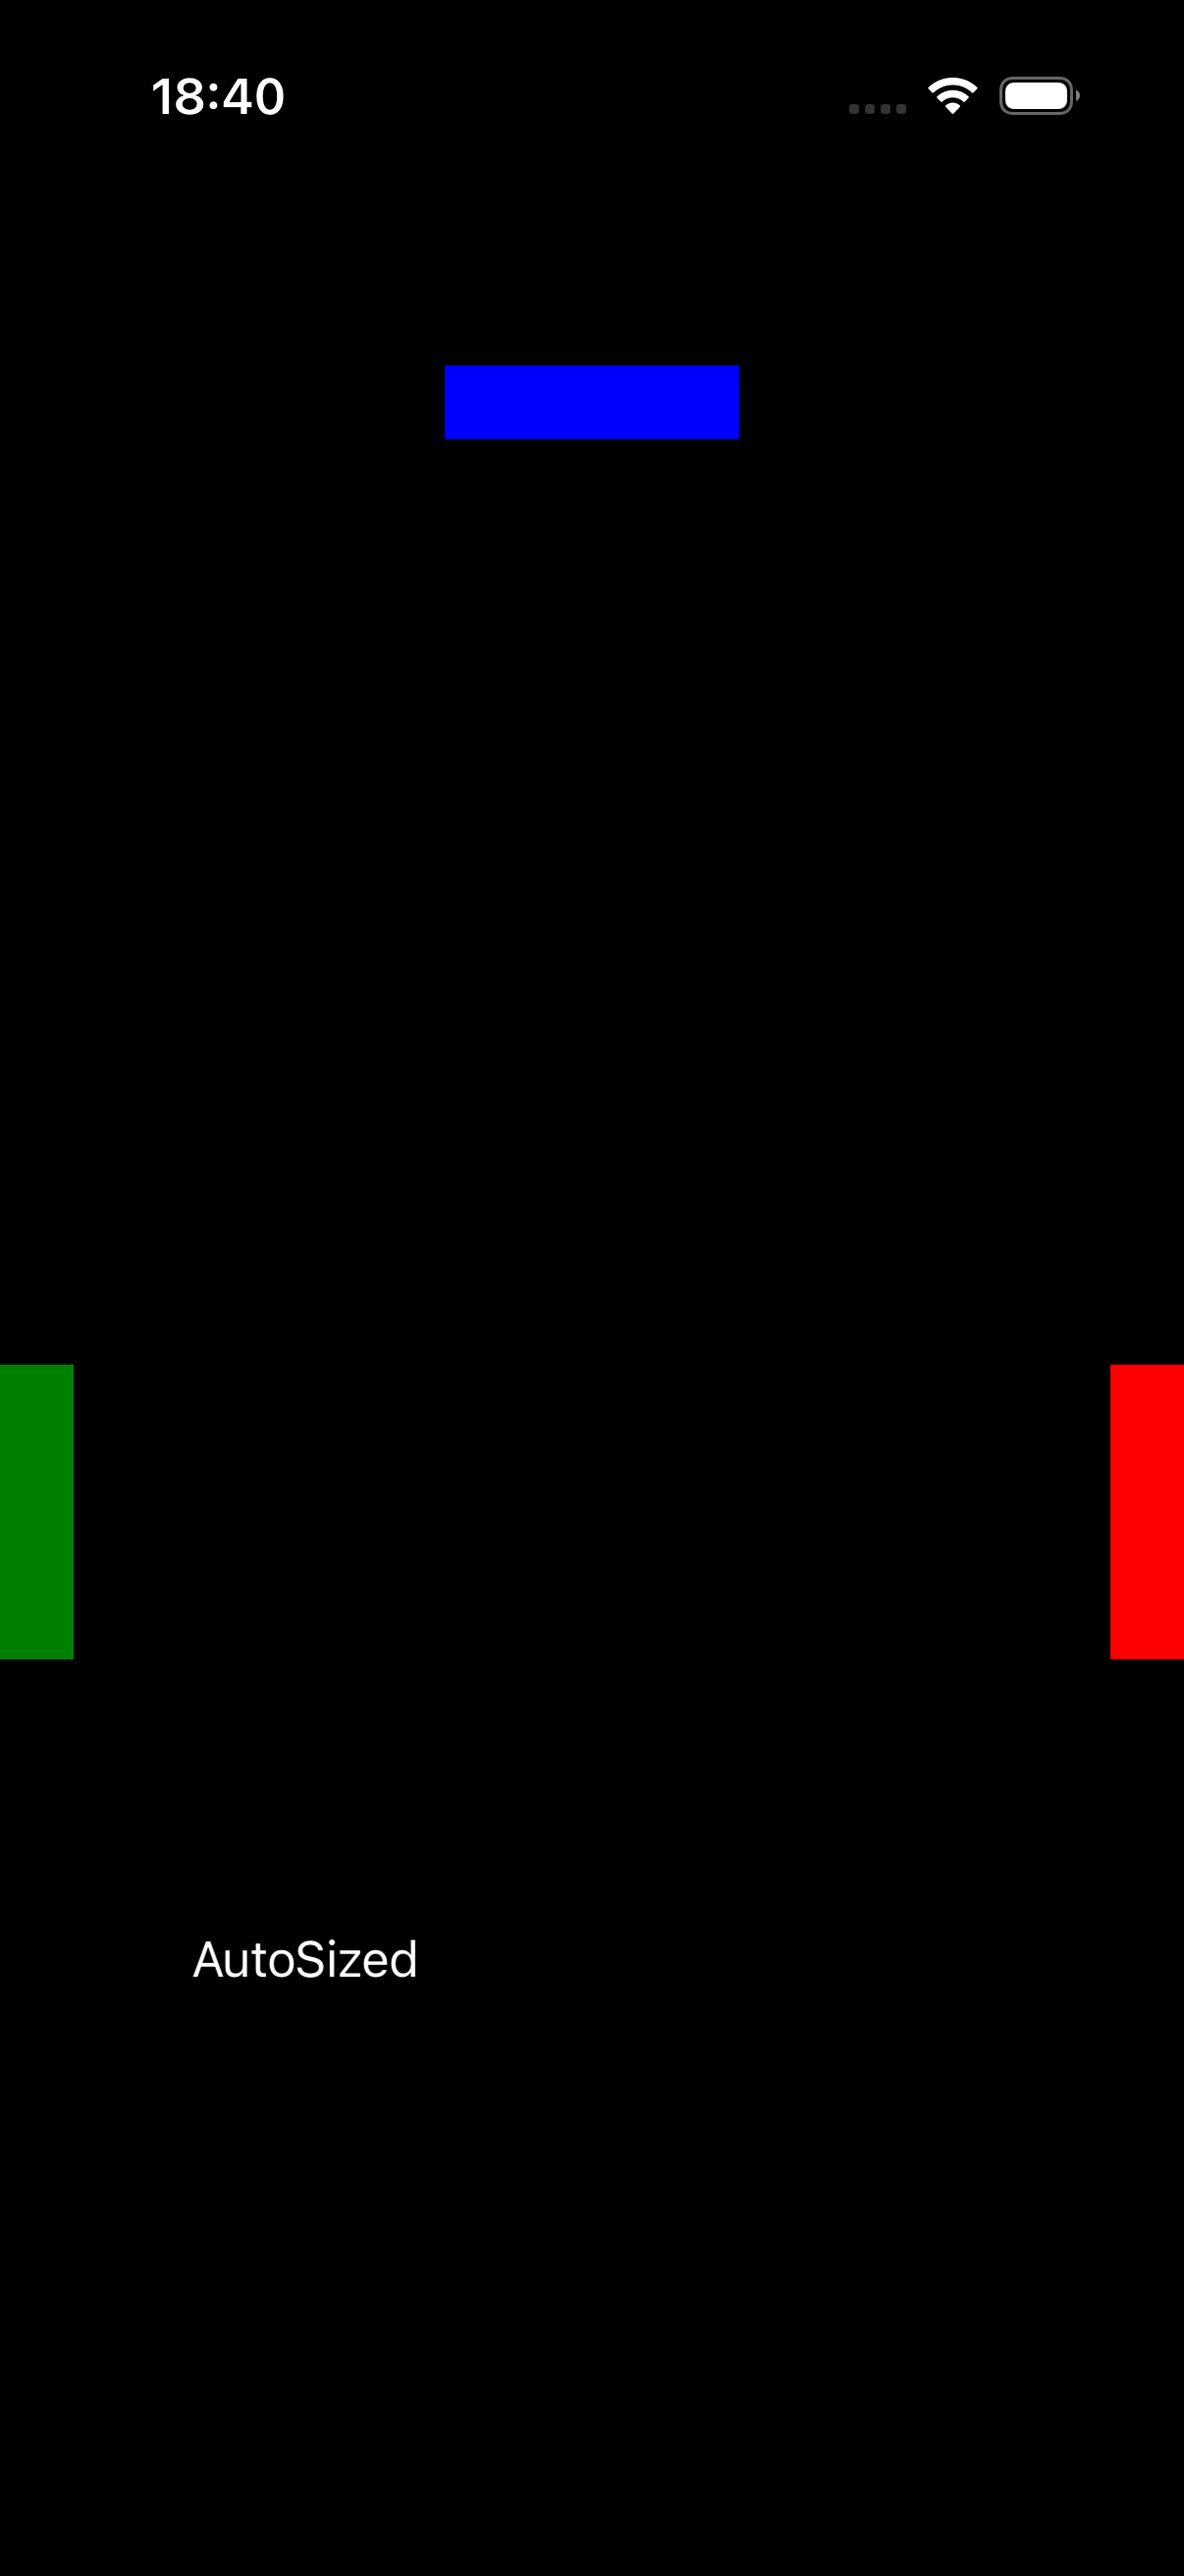
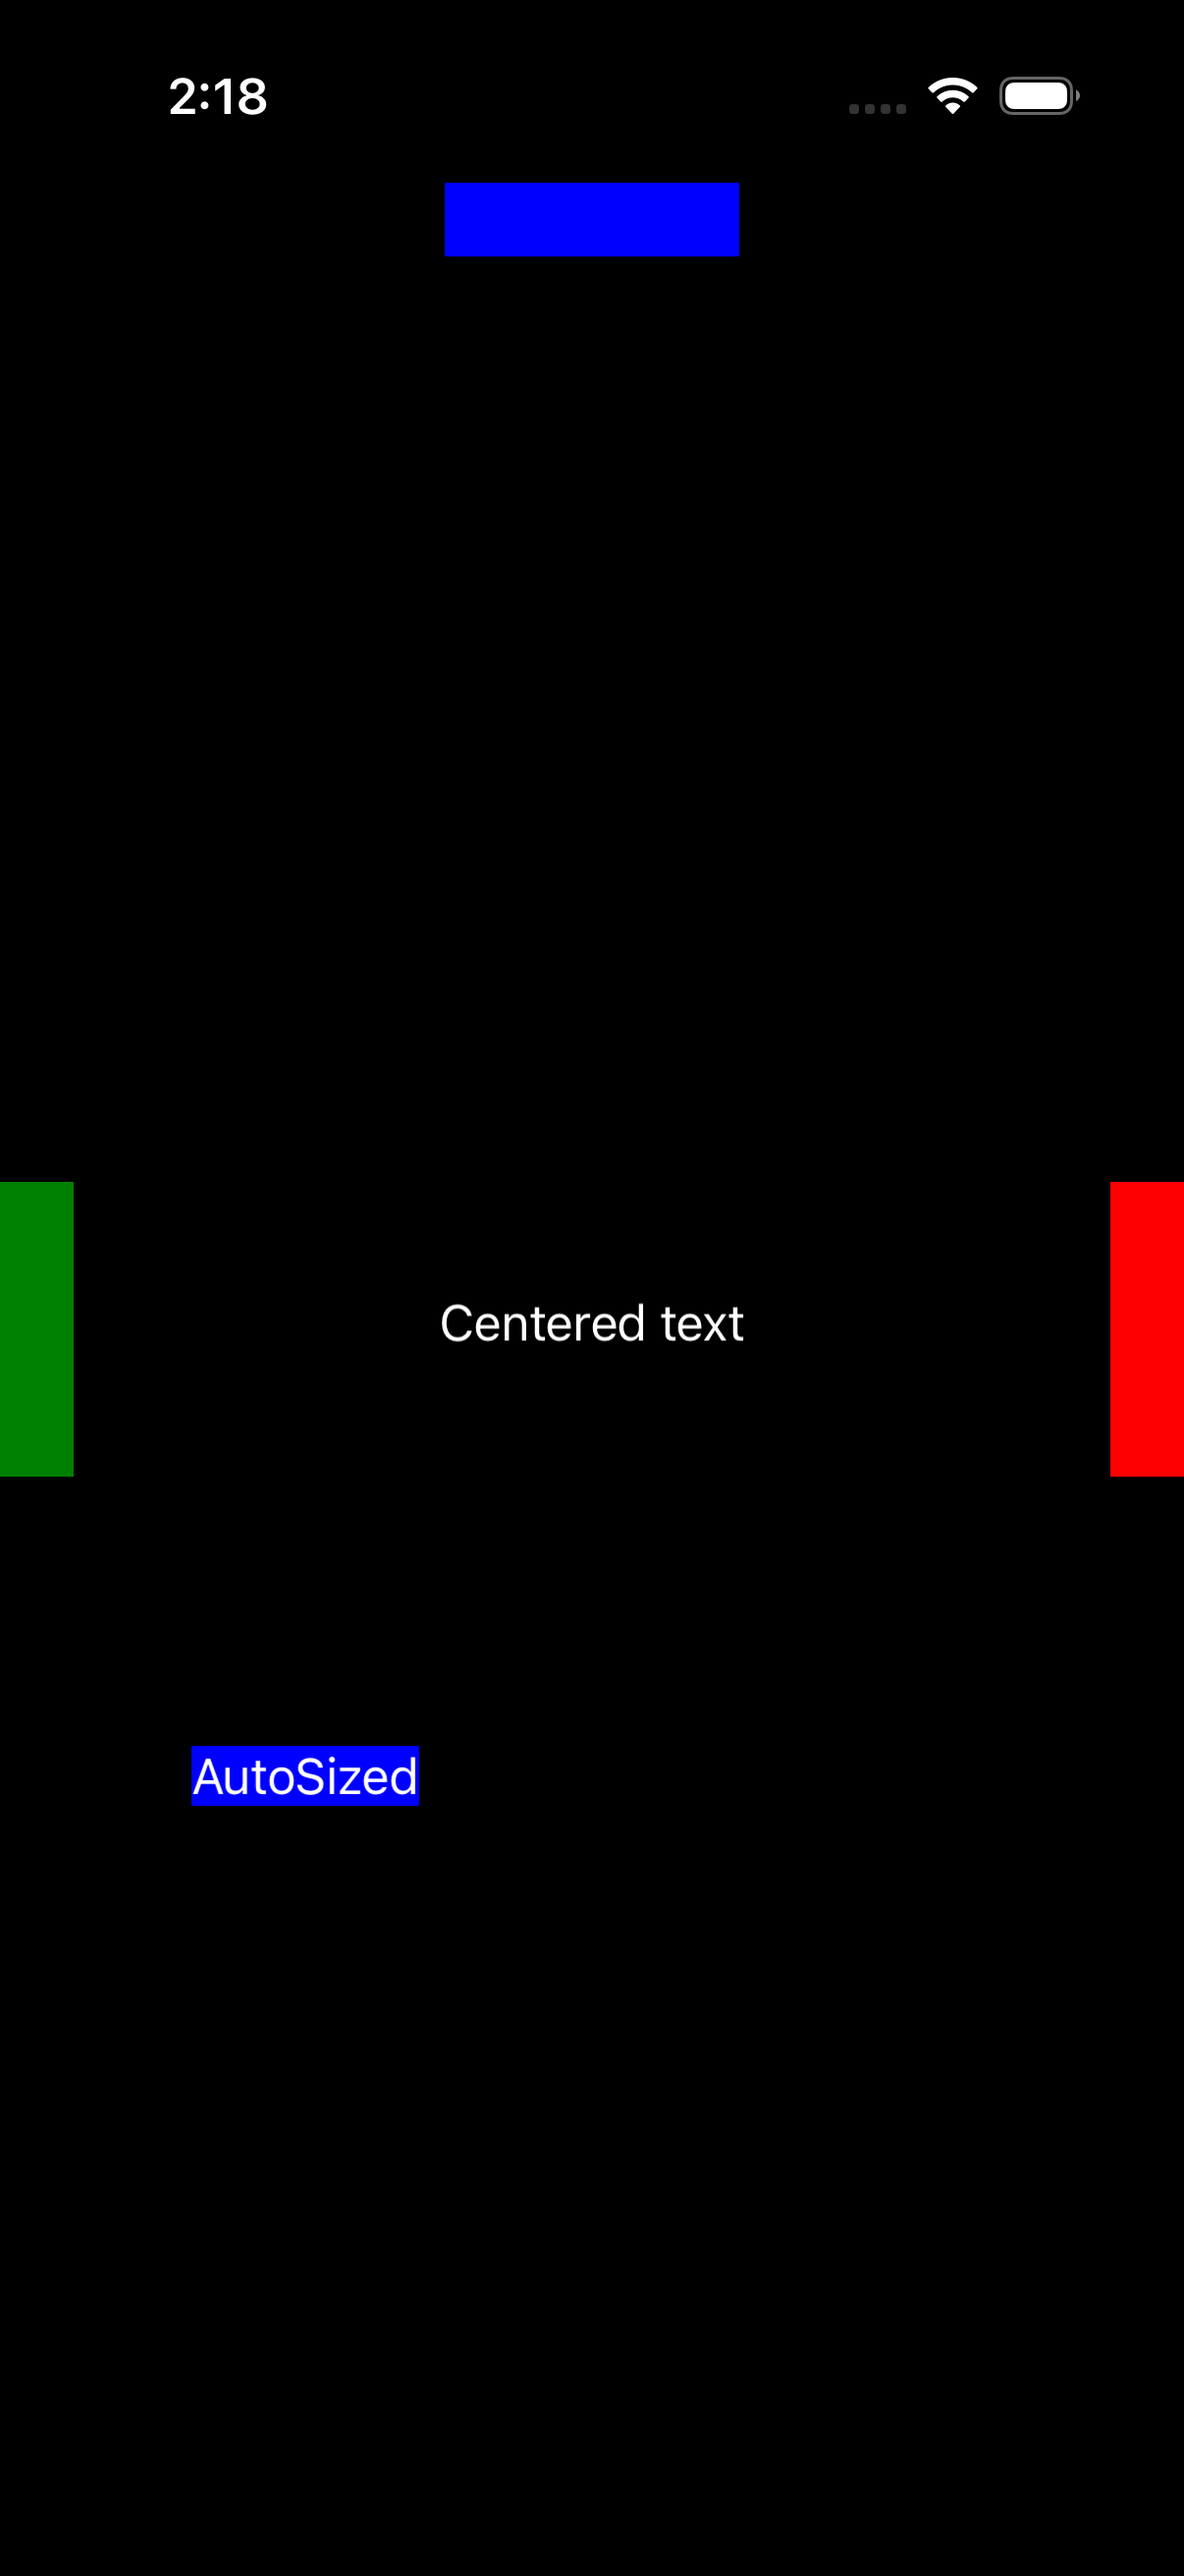
fix(ios): label MapBackground + #35 absolute_layout parity
The iOS label_handler never overrode update_background — a Label's
Background paint (LabelHandler is a VisualElement) fell through to the
no-op view_platform_base mirror and never rendered. The AbsoluteLayout
gallery page's 'AutoSized' label (white text on a blue box) was therefore
invisible on a light page (white-on-white) and bare white text on dark.

- ios label_platform::update_background -> apply_background (solid sets
  layer.backgroundColor; gradient/image install a sublayer kept sized by
  a new MauiIosLabel layoutSubviews -> resize_background_layers, the same
  pattern the value controls use). Mirrors button_handler's override.
- Regression: ios_label_seam.solid_background_paints_the_backing_layer.
  ios label seam 14/14 green; clang-tidy clean.

#35 absolute_layout now renders all 6 children correctly in both themes
(verified on-sim) — matches C#; residual is the maui-compare gray
container card (harness artifact). Tracker -> minor L/D.

diff --git a/port/cpp/tests/controls/label_ios_tests.mm b/port/cpp/tests/controls/label_ios_tests.mm
@@ -19,6 +19,7 @@
 #include "maui/core/visibility.hpp"
 #include "maui/graphics/color.hpp"
 #include "maui/graphics/size.hpp"
+#include "maui/graphics/solid_paint.hpp"
 #include <gtest/gtest.h>
 
 // The shape of the handler's MauiIosLabel (declared in src/platform/ios/label_handler.mm): the test
@@ -95,6 +96,30 @@ namespace
 
         control.set_horizontal_text_alignment(text_alignment::center);
         EXPECT_EQ(view.textAlignment, NSTextAlignmentCenter);
+    }
+
+    // MapBackground: a SolidPaint background paints the UILabel's backing layer (the AbsoluteLayout
+    // "AutoSized" demo is white text on a blue box). Before update_background was wired on iOS the paint
+    // fell through to the no-op view_platform_base mirror and the label rendered transparent — invisible on
+    // a light page. The CGColor round-trips back through UIColor to read its components.
+    TEST(ios_label_seam, solid_background_paints_the_backing_layer)
+    {
+        label control;
+        auto handler = std::make_shared<label_handler>();
+        control.set_handler(handler);
+        UILabel* const view = native_label(handler);
+
+        control.set_background(std::make_shared<maui::graphics::solid_paint>(maui::graphics::color(0.0F, 0.0F, 1.0F)));
+        ASSERT_NE(view.layer.backgroundColor, nullptr);
+        UIColor* const bg = [UIColor colorWithCGColor:view.layer.backgroundColor];
+        CGFloat red = 0;
+        CGFloat green = 0;
+        CGFloat blue = 0;
+        CGFloat alpha = 0;
+        ASSERT_TRUE([bg getRed:&red green:&green blue:&blue alpha:&alpha]);
+        EXPECT_NEAR(red, 0.0, 0.01);
+        EXPECT_NEAR(blue, 1.0, 0.01);
+        EXPECT_NEAR(alpha, 1.0, 0.01);
     }
 
     // Ports LabelHandlerTests.iOS CharacterSpacingInitializesCorrectly: the kerning on the attributed

diff --git a/port/cpp/src/platform/ios/label_handler.mm b/port/cpp/src/platform/ios/label_handler.mm
@@ -25,6 +25,7 @@
 
 #include "ios_conversions.hpp"
 #include "ios_text_ops.hpp"
+#include "ios_visual_ops.hpp"
 #include "maui/core/dimension.hpp"
 #include "maui/core/i_label.hpp"
 #include "maui/core/label_handler.hpp"
@@ -118,6 +119,16 @@
     const CGFloat width = MIN(requested.width, size.width) + insets.left + insets.right;
     const CGFloat height = MIN(requested.height, size.height) + insets.top + insets.bottom;
     return CGSizeMake(width, height);
+}
+
+// Keep a gradient/image background sublayer (installed by apply_background) sized to the label's CURRENT
+// bounds — apply_background runs at map time, before layout, when layer.bounds is still zero. The same
+// resize_background_layers pattern the value-control MauiIos* subclasses use; a solid background paints
+// layer.backgroundColor directly and needs no resize.
+- (void)layoutSubviews
+{
+    [super layoutSubviews];
+    maui::platform::ios::resize_background_layers((__bridge void*)self);
 }
 @end
 
@@ -218,6 +229,14 @@ namespace maui::core
         const std::string id(value);
         NSString* const raw = [NSString stringWithUTF8String:id.c_str()];
         as_label(native).accessibilityIdentifier = raw != nil ? raw : @"";
+    }
+
+    // MapBackground: paint the solid/gradient/image onto the UILabel's backing layer (PaintExtensions).
+    // A solid sets layer.backgroundColor directly; a gradient/image installs a sublayer kept sized by the
+    // MauiIosLabel layoutSubviews above. Null clears the override.
+    void label_platform::update_background(const maui::graphics::paint* value)
+    {
+        maui::platform::ios::apply_background(native, value);
     }
 
     std::unique_ptr<label_platform> label_handler::create_platform_view()

diff --git a/port/cpp/include/maui/core/label_handler.hpp b/port/cpp/include/maui/core/label_handler.hpp
@@ -97,6 +97,11 @@ namespace maui::core
         void update_opacity(double value) override;
         void update_is_enabled(bool value) override;
         void update_automation_id(std::string_view value) override;
+        // MapBackground (LabelHandler is a VisualElement → a Label CAN carry a Background, e.g. the
+        // AbsoluteLayout "AutoSized" demo paints white-on-blue): push the solid/gradient/image paint onto
+        // the UILabel's backing layer via apply_background. Without it the paint fell through to the no-op
+        // view_platform_base mirror and never rendered (a transparent label, invisible on a light page).
+        void update_background(const maui::graphics::paint* value) override;
 #endif
     };
 

diff --git a/port/cpp/docs/comparison/README.md b/port/cpp/docs/comparison/README.md
@@ -2,7 +2,7 @@
 
 Theme-matched iOS comparison: each page rendered by **real .NET MAUI** vs the **C++ port**, on the same iPhone 17 simulator, compared **light-vs-light** and **dark-vs-dark**. Both stacks render native-default controls + the system font (the C# app's `dotnet new maui` default `Styles.xaml` + OpenSans are stripped; appearance forced via `MAUI_THEME` / `MAUI_APPEARANCE`). Goal: pixel-perfect parity, fixed example-by-example.
 
-**Progress: 0 / 172 🟢 matched** · 32 🟡 minor · 47 🔴 diff · 93 ⬜ pending
+**Progress: 0 / 172 🟢 matched** · 33 🟡 minor · 46 🔴 diff · 93 ⬜ pending
 
 Status legend: 🟢 pixel-match (both themes) · 🟡 minor diff · 🔴 notable diff to fix · ⬜ not yet reviewed. Per-theme verdicts in `parity_status.json`.
 
@@ -46,7 +46,7 @@ Rows are in **fix order** (top → bottom): foundational single controls first (
 | 32 | Vertical Stack | 🟡<br>L:minor<br>D:minor | ![](csharp_ios_light/vertical_stack.png) | ![](cpp_ios_light/vertical_stack.png) | ![](csharp_ios_dark/vertical_stack.png) | ![](cpp_ios_dark/vertical_stack.png) |
 | 33 | Horizontal Stack | 🟡<br>L:minor<br>D:minor | ![](csharp_ios_light/horizontal_stack.png) | ![](cpp_ios_light/horizontal_stack.png) | ![](csharp_ios_dark/horizontal_stack.png) | ![](cpp_ios_dark/horizontal_stack.png) |
 | 34 | Grid | 🟡<br>L:minor<br>D:minor | ![](csharp_ios_light/grid.png) | ![](cpp_ios_light/grid.png) | ![](csharp_ios_dark/grid.png) | ![](cpp_ios_dark/grid.png) |
-| 35 | Absolute Layout | 🔴<br>L:diff<br>D:diff | ![](csharp_ios_light/absolute_layout.png) | ![](cpp_ios_light/absolute_layout.png) | ![](csharp_ios_dark/absolute_layout.png) | ![](cpp_ios_dark/absolute_layout.png) |
+| 35 | Absolute Layout | 🟡<br>L:minor<br>D:minor | ![](csharp_ios_light/absolute_layout.png) | ![](cpp_ios_light/absolute_layout.png) | ![](csharp_ios_dark/absolute_layout.png) | ![](cpp_ios_dark/absolute_layout.png) |
 | 36 | Flex Layout | ⬜<br>L:pending<br>D:pending | ![](csharp_ios_light/flex_layout.png) | ![](cpp_ios_light/flex_layout.png) | ![](csharp_ios_dark/flex_layout.png) | ![](cpp_ios_dark/flex_layout.png) |
 | 37 | Relative Layout | ⬜<br>L:pending<br>D:pending | ![](csharp_ios_light/relative_layout.png) | ![](cpp_ios_light/relative_layout.png) | ![](csharp_ios_dark/relative_layout.png) | ![](cpp_ios_dark/relative_layout.png) |
 | 38 | Layout alignment (Start/Center/End/Fill) | 🔴<br>L:diff<br>D:diff | ![](csharp_ios_light/alignment.png) | ![](cpp_ios_light/alignment.png) | ![](csharp_ios_dark/alignment.png) | ![](cpp_ios_dark/alignment.png) |
